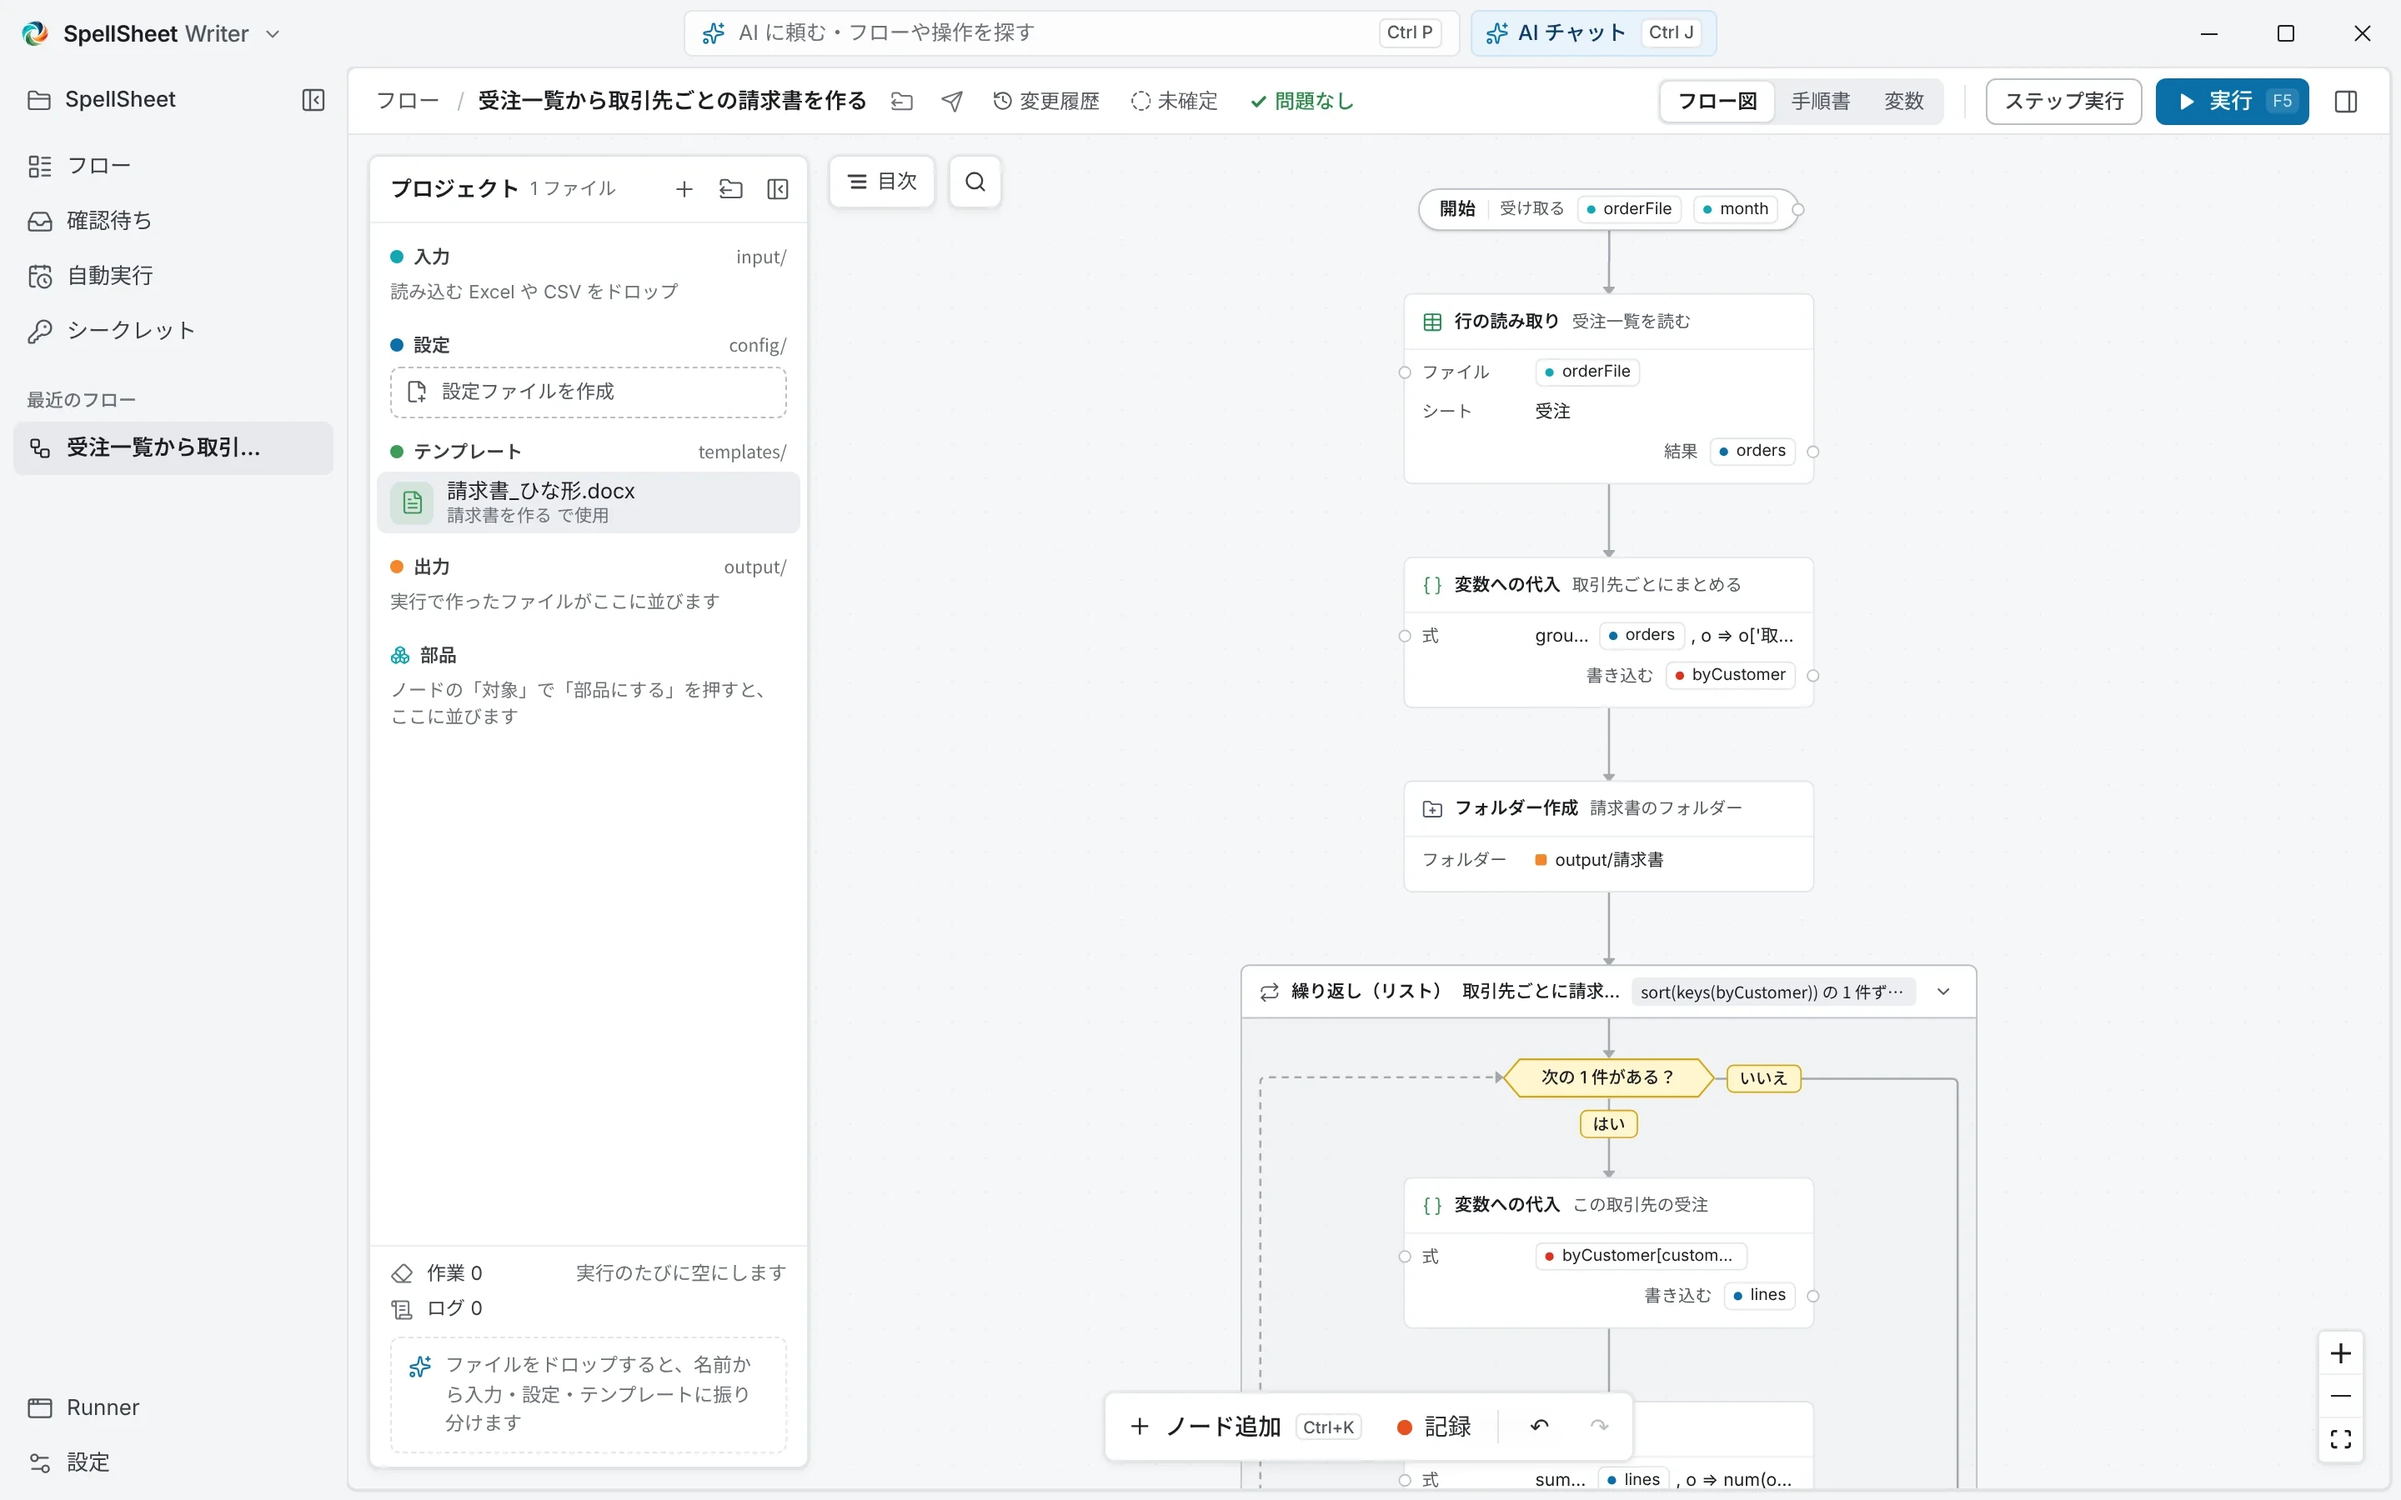
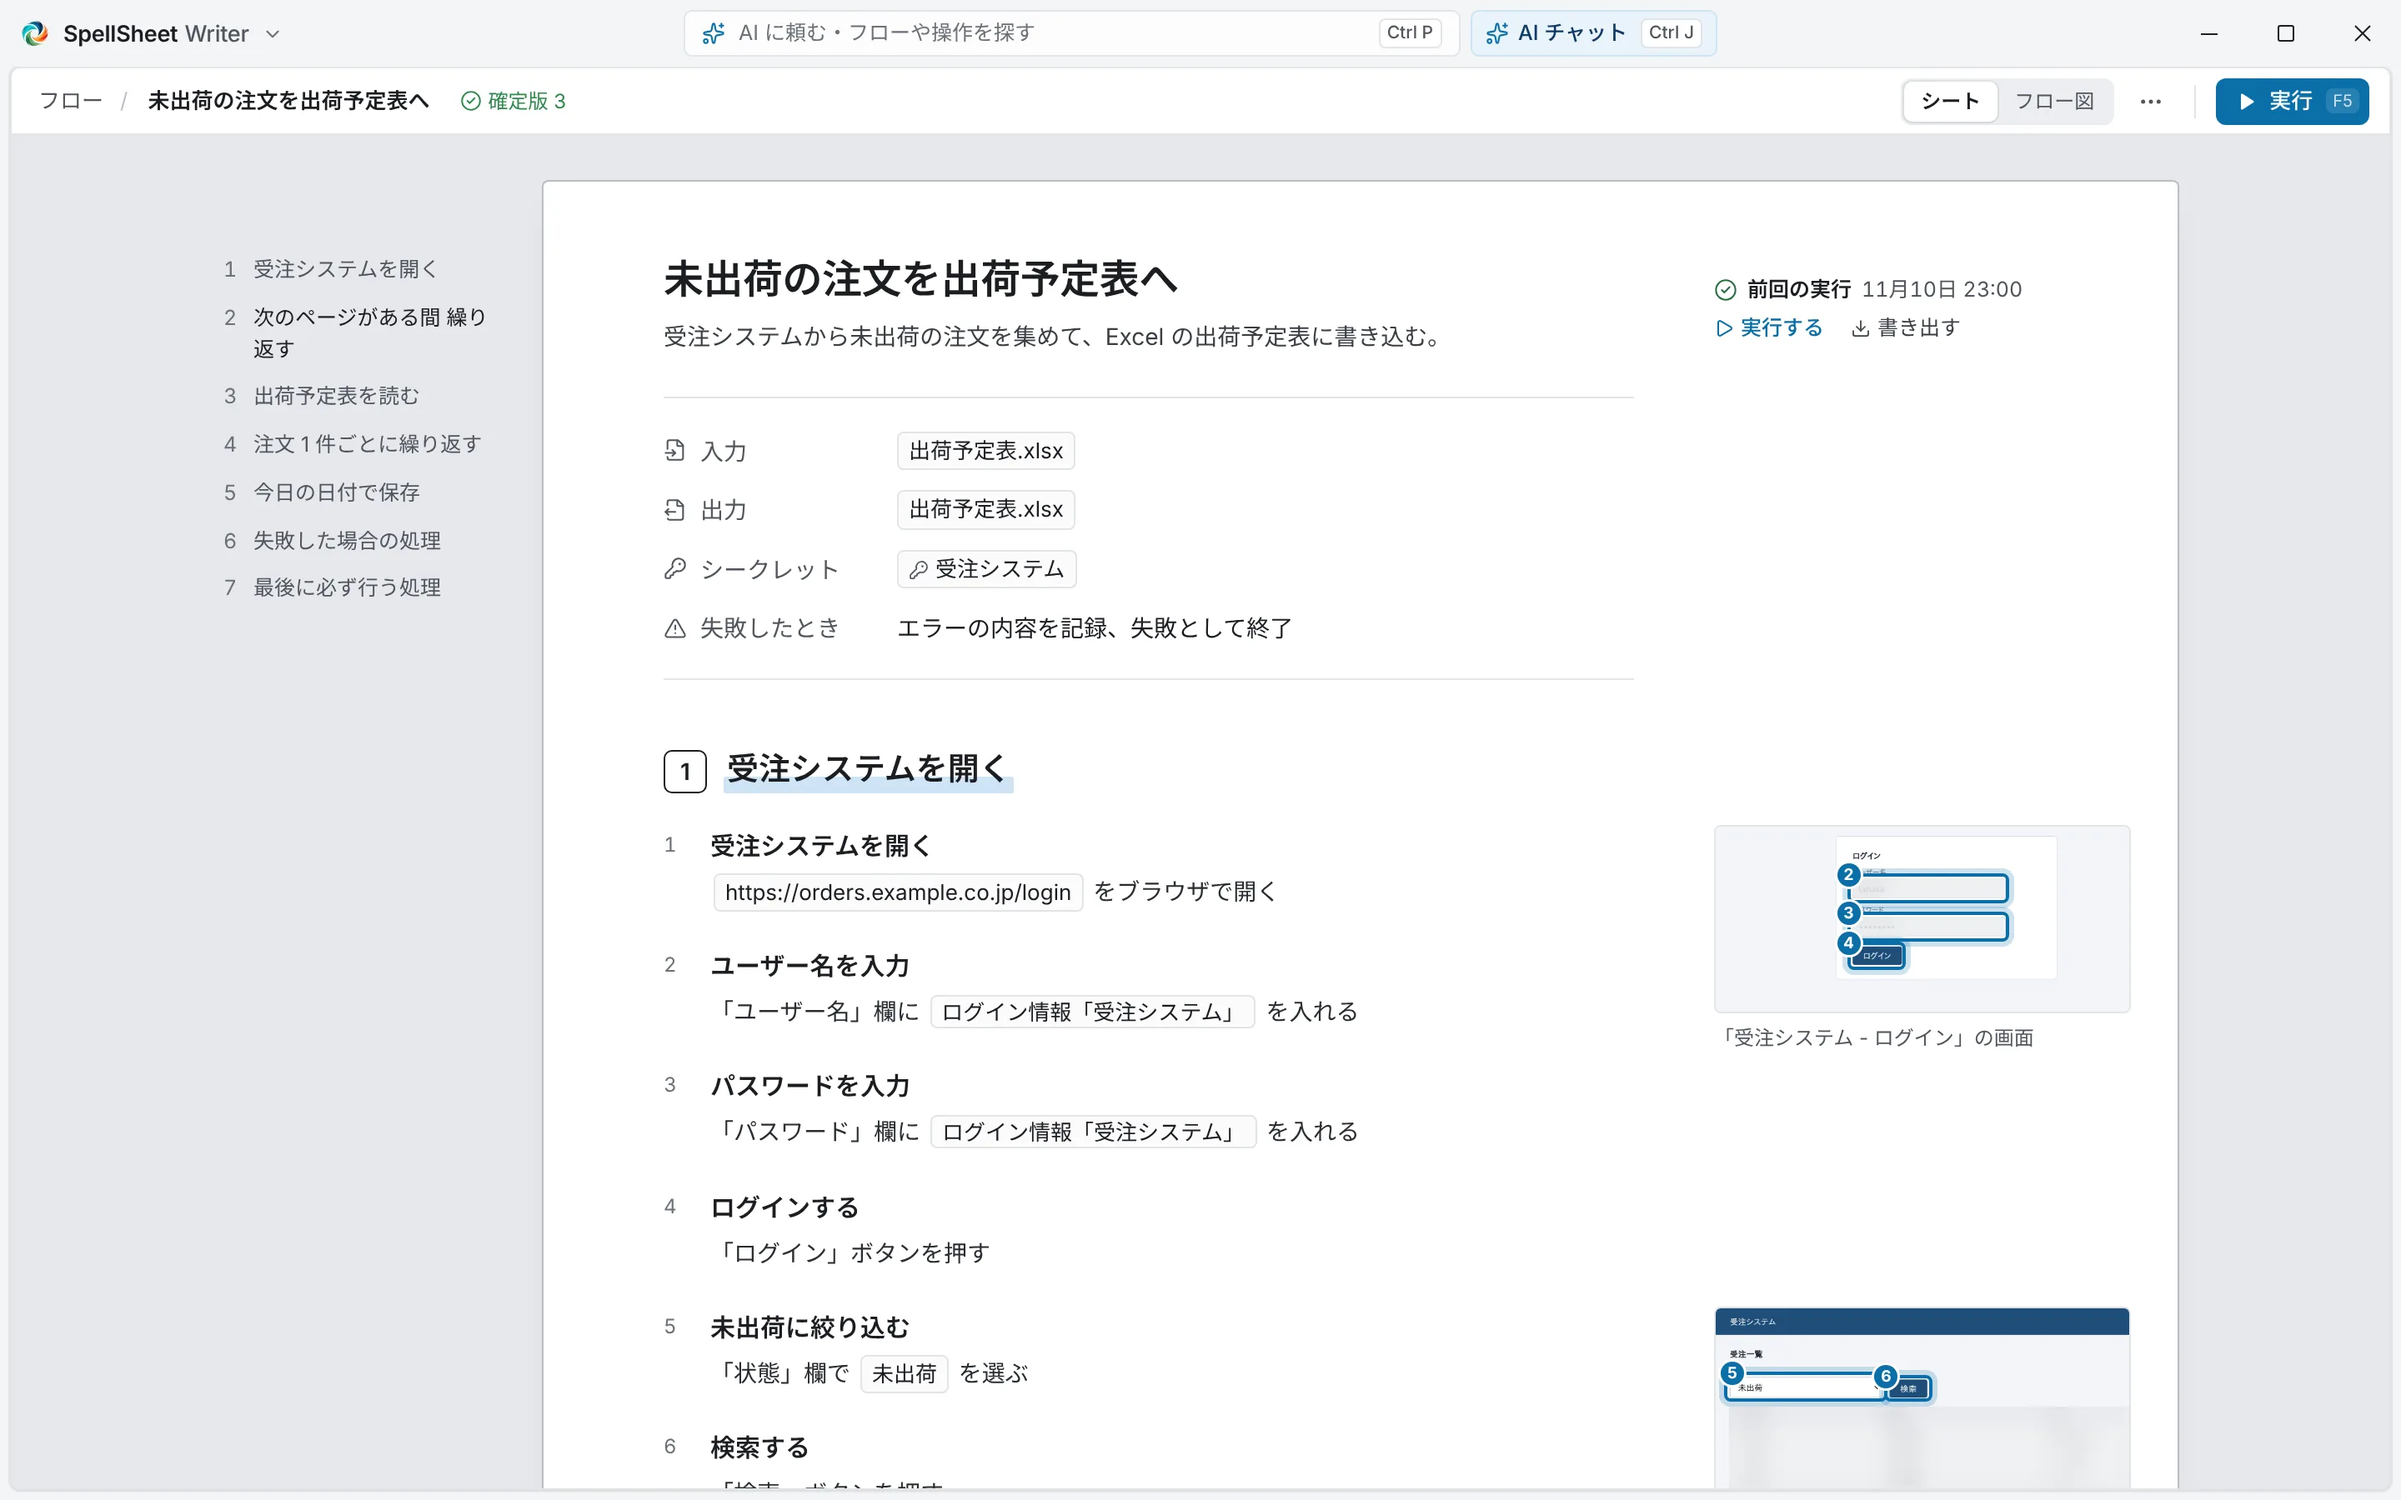
Manual: the Writer pages follow the sheet, the chart and the window without a sidebar

diff --git a/apps/studio/src/lib/locales/ja.ts b/apps/studio/src/lib/locales/ja.ts
@@ -967,7 +967,7 @@ export const ja = {
   },
   evidence: {
     goneStep: "（いまは無いノード）",
-    showInFlow: "フロー図でこのノードを見る",
+    showInFlow: "シートでこのノードを見る",
     lastSendBack: "前回の差し戻し",
     revision: (revision: number) => `版 ${revision}`,
     fixedAfter: "このあとAI が直しました",
@@ -1635,7 +1635,7 @@ export const ja = {
       cancelled: "フローは途中で中止されました。中止までに操作したものを確認してください。",
     } as Record<string, string>,
     failure: "止まった理由",
-    seeNode: "フロー図で見る",
+    seeNode: "シートで見る",
     outputFiles: "出力ファイル",
     outputFilesNote: "この実行で書き込んだファイルです",
     outputs: "出力項目",
@@ -1745,7 +1745,7 @@ export const ja = {
     seenMark: "確認済み",
     before: "前",
     after: "後",
-    showInFlow: "フロー図で見る",
+    showInFlow: "シートで見る",
     details: "項目の値",
     afterFeedback: "差し戻しのあと",
     sameSentence: "説明文は同じです。項目の値が変わりました。",

diff --git a/apps/studio/src/lib/locales/en.ts b/apps/studio/src/lib/locales/en.ts
@@ -967,7 +967,7 @@ export const en: Dict = {
   },
   evidence: {
     goneStep: "(node no longer exists)",
-    showInFlow: "Show this node in the flow",
+    showInFlow: "Show this node on the sheet",
     lastSendBack: "Last sent back",
     revision: (revision: number) => `rev ${revision}`,
     fixedAfter: "Fixed by the AI since",
@@ -1636,7 +1636,7 @@ export const en: Dict = {
       cancelled: "The flow was stopped partway. Check what it had worked on by then.",
     } as Record<string, string>,
     failure: "Why it stopped",
-    seeNode: "Show on the flow chart",
+    seeNode: "Show on the sheet",
     outputFiles: "Output files",
     outputFilesNote: "Files this run wrote",
     outputs: "Outputs",
@@ -1746,7 +1746,7 @@ export const en: Dict = {
     seenMark: "Seen",
     before: "Before",
     after: "After",
-    showInFlow: "Show in flow",
+    showInFlow: "Show on the sheet",
     details: "Values",
     afterFeedback: "After send-back",
     sameSentence: "The description is unchanged; its values changed.",

diff --git a/apps/manual/src/content/docs/folders.md b/apps/manual/src/content/docs/folders.md
@@ -11,7 +11,7 @@ SpellSheet のファイルは、次の 3 か所にあります。
 | `%APPDATA%\SpellSheet` | Writer の設定（`config.json`：どこをワークスペースにするかなど） |
 | `%LOCALAPPDATA%\SpellSheet` | この PC だけのもの（プラグイン、Writer のログ、共有ワークスペースのときの PC ごとの記録） |
 
-ワークスペースの場所は、Writer のサイドバーの上の保存先の名前にマウスを重ねると出ます。「設定」→「保存先」で変えられます。
+ワークスペースの場所は、「設定」→「保存先」で確かめられ、変えられます。
 
 ## ワークスペース
 
@@ -28,7 +28,7 @@ workspace\
   ── ここから下は「この PC の記録」 ──
   runs\               実行の記録（1 回の実行 1 フォルダー）
   history\            変更の履歴と、元に戻す（Undo）のための記録、AI の変更の確認の記録
-  manuals\            手順書の画面の写真
+  manuals\            シートに付く画面の写真
   observations\       AI がフローを作るときに見た画面
   audit\              AI ツール（MCP）からの操作の記録
   approvals\          AI の操作の承認の依頼

diff --git a/apps/manual/src/content/docs/glossary.md b/apps/manual/src/content/docs/glossary.md
@@ -8,8 +8,8 @@ description: SpellSheet の画面とこのマニュアルで使う言葉。
 | フロー | 1 つの業務を自動で行うための手順。ノードを上から順に並べたもの |
 | ノード | フローの中の 1 つの操作（「クリック」「行の読み取り」「ファイル保存」など） |
 | サブフロー | ほかのフローから呼び出して使うフロー。「サブフロー呼び出し」ノードで呼びます |
-| フロー図 | フローを上から下への図で表した画面 |
-| 手順書 | フローを A4 の業務手順書の形で読む画面。画面の写真付き |
+| シート | フローを 1 枚の紙に、手順の文と画面の写真で表した画面。ここで読み、直します |
+| フロー図 | フローを、使うアプリごとの列に分けた図で読む画面 |
 | 変数 | フローの中で値を入れておく名前。「受け取る」変数は実行のときに聞かれる入力になります |
 | 部品 | 画面のボタンや入力欄に名前を付けたもの。いくつものノードで使えます |
 | 作業中の内容 | いま編集しているフローの内容。Writer の「実行」と AI の試し実行で動きます |

diff --git a/apps/manual/src/content/docs/custom-nodes.md b/apps/manual/src/content/docs/custom-nodes.md
@@ -9,7 +9,7 @@ SpellSheet に最初から入っているノード（ブラウザ・デスクト
 
 ## 開く
 
-サイドバーの「プラグイン」を押すと、プラグインのページが開きます。
+左上の「SpellSheet Writer」→「プラグイン」を押すと、プラグインのページが開きます。
 
 | タブ | 内容 |
 |---|---|
